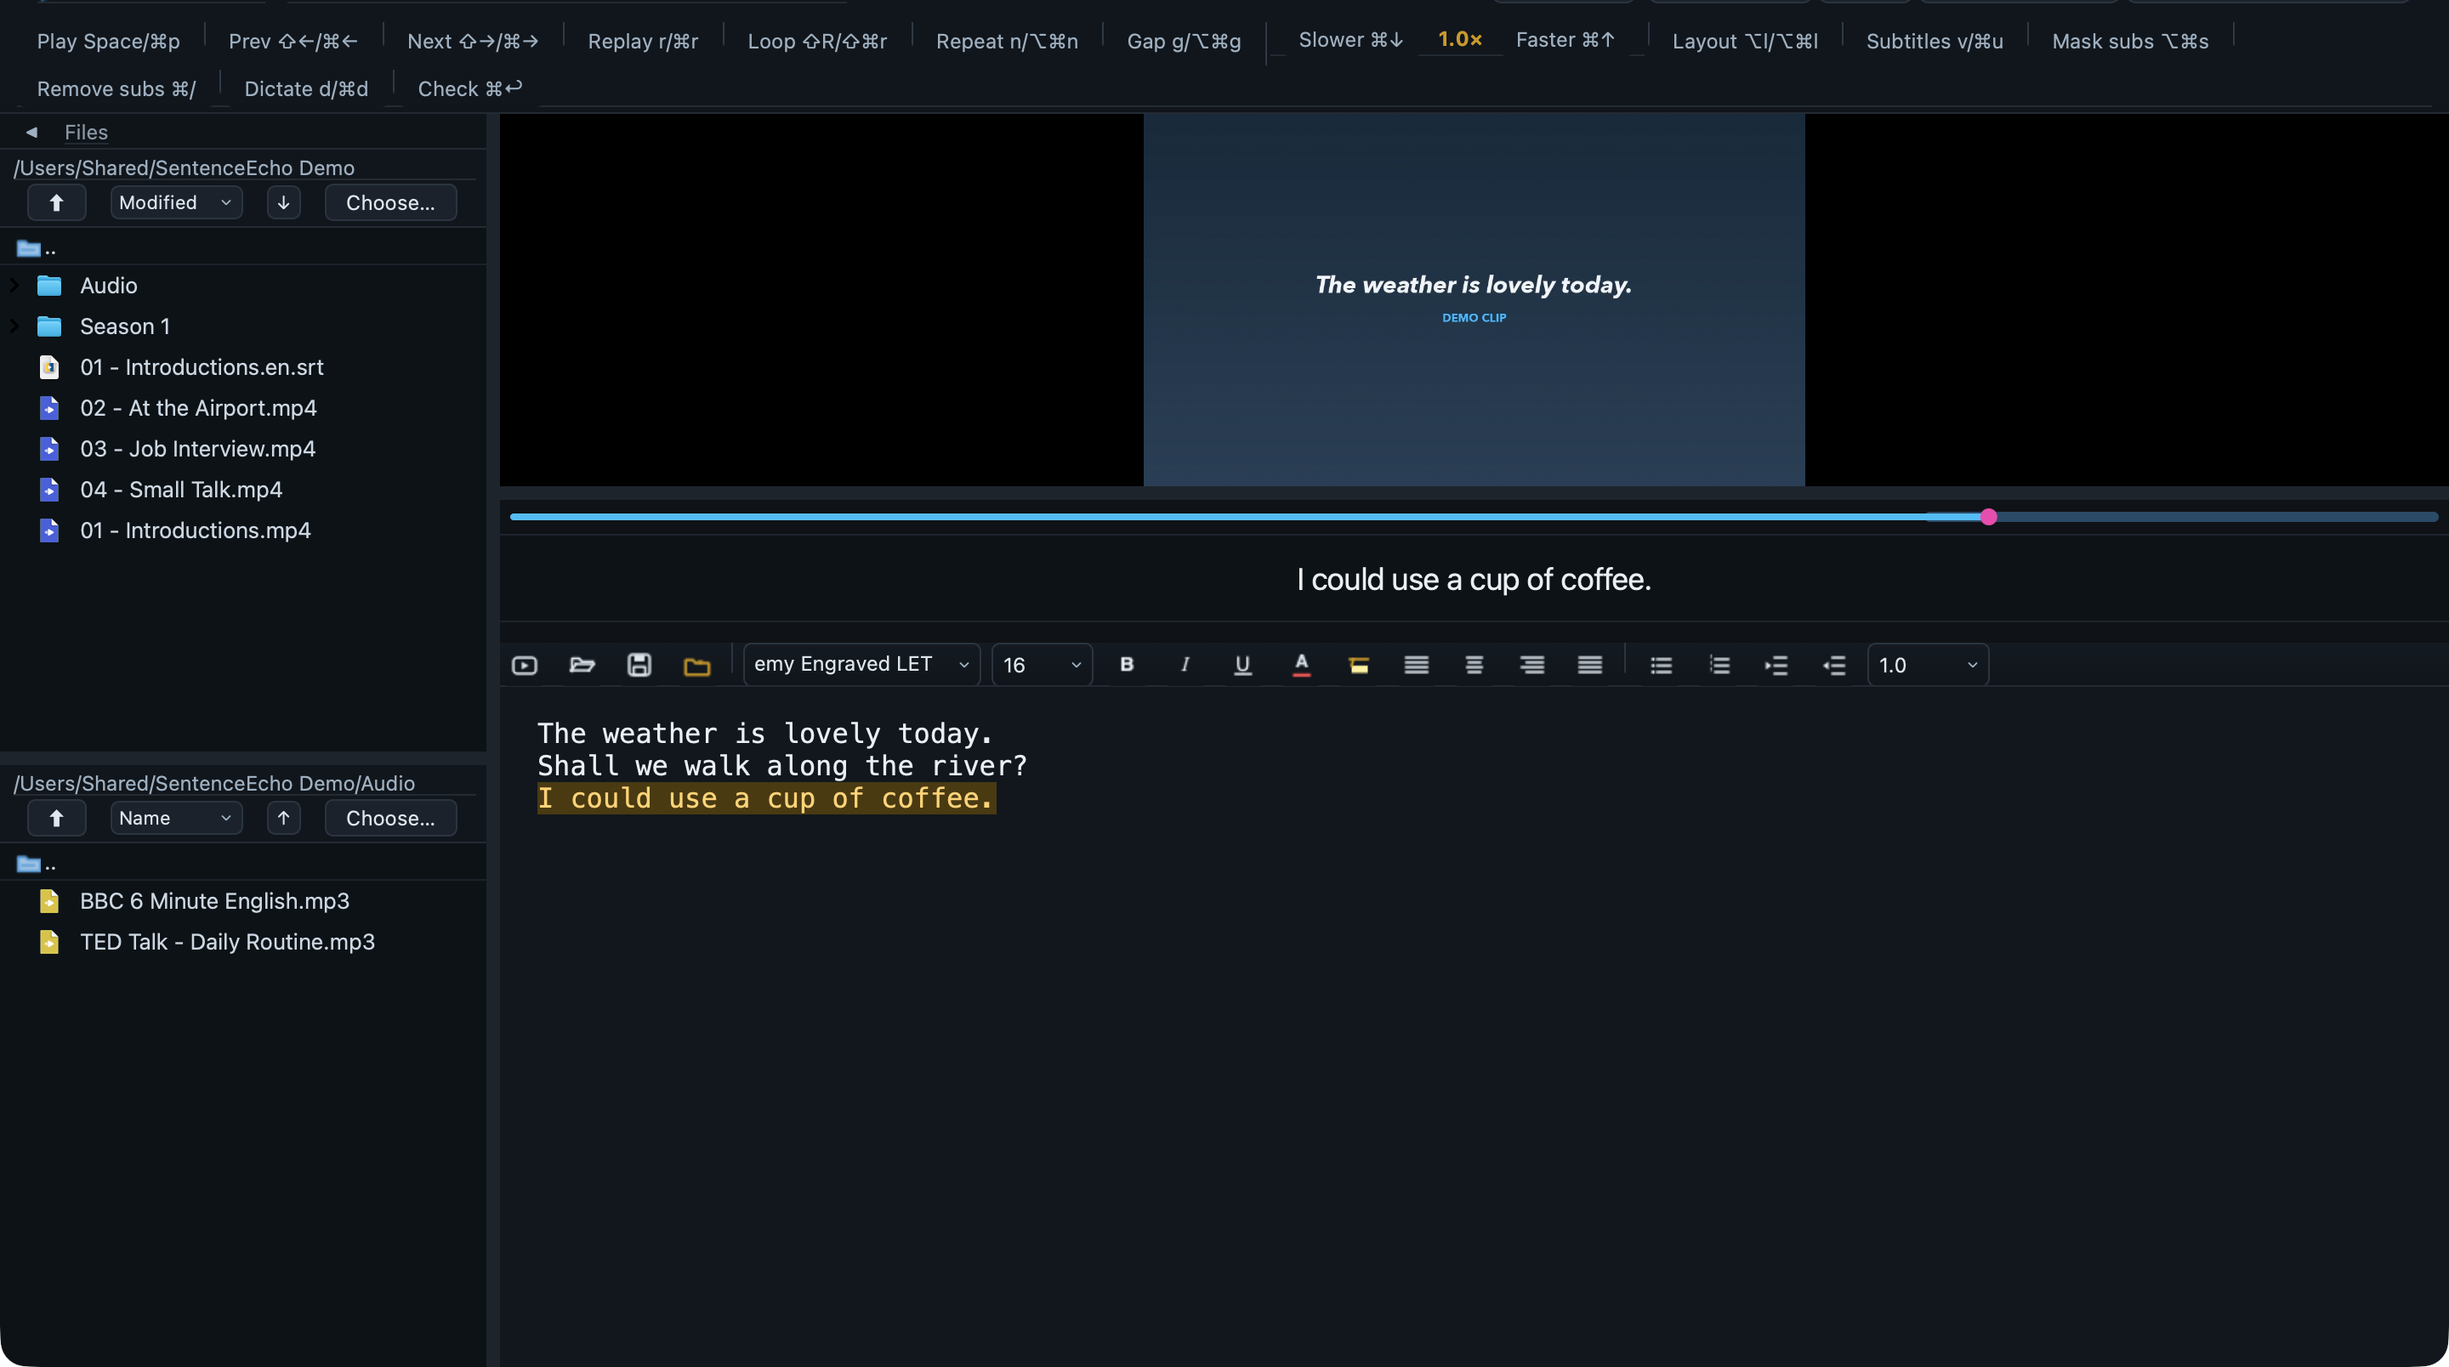
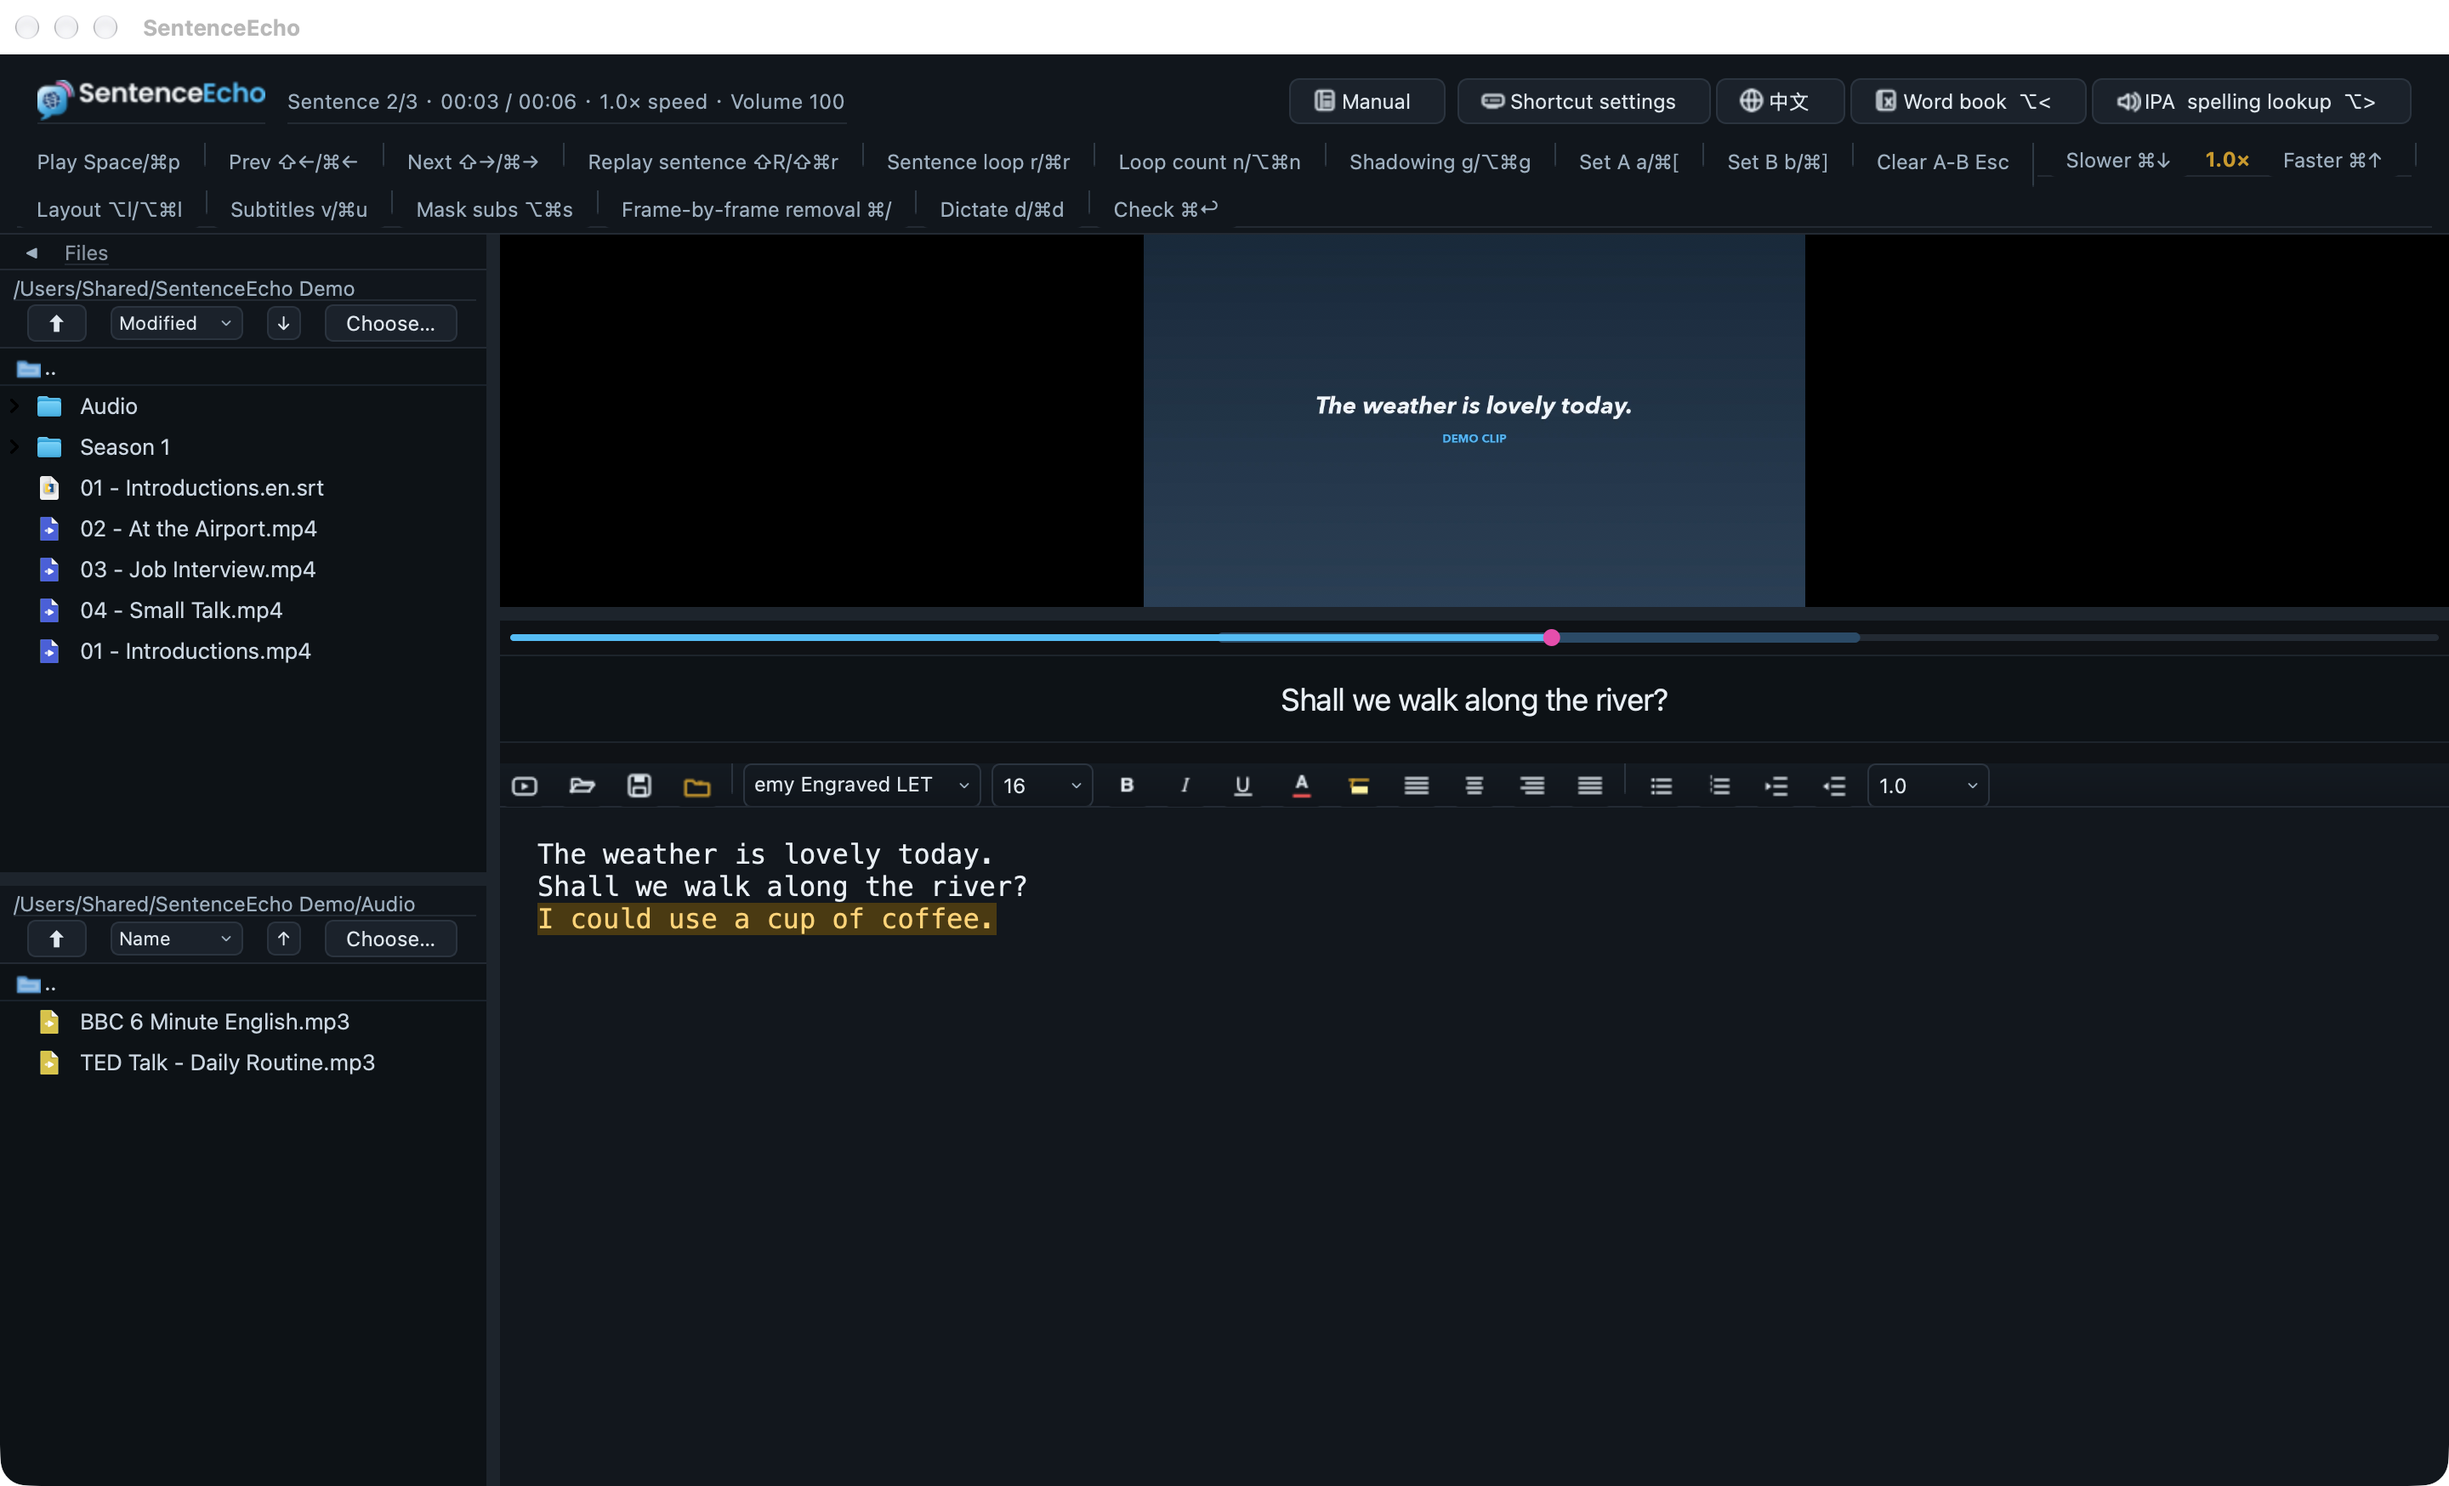
site: new section — lookup-by-sound/spelling engine and arbitrary A-B

diff --git a/app.js b/app.js
@@ -174,6 +174,14 @@
       spot_note: "识别在本机运行，音频不上传。识别引擎与多语种模型已内置在安装包里（约 160 MB），装好即用、全程离线。",
 
       sec3_eb: "03 · 对比",
+      eng_h: "两个真正干活的引擎：听音查字、任意 A-B",
+      eng_sub: "市面上的播放器大多只管\"放\"，查词要另开词典、循环只能按秒拖。这两件事在这里是内置的。",
+      eng1_t: "内置听音查字 / 拼写查字引擎",
+      eng1_p1: "听到一个词却拼不出来——这是听力练习里最常见的卡点。这里不靠\"你会拼\"，而靠\"你听到的音\"：在音素键盘上按音打音标（b3rd → bird、reinbou → rainbow），也可以直接拼个大概。",
+      eng1_p2: "20 万词库、统一英式音标、音素级模糊匹配（同距离按词频，常用词在前）；拼写模式里\"完全拼对的词永远第一\"，前缀同族紧随其后（doom → dooms/doomy）。结果一行显示，回车插入并关闭。",
+      eng2_t: "任意 A-B：起止自己定，不依赖字幕",
+      eng2_p1: "按 ⌘[ 设 A 点、⌘] 设 B 点，就在任意两处之间来回播——可跨句、可只练半句、可卡住一个长句的中间难点；Esc 一键取消。",
+      eng2_p2: "区间在进度条上用洋红色带标出，A/B 端点看得见；没有字幕的素材同样可用。循环中随时可跳上一句/下一句，不会和 A-B 打架。",
       cmp_h: "和现有工具比，差在哪一列",
       cmp_sub: "按品类归纳，不针对具体产品。功能有无只是表象；能不能连成一条线，才是差别。",
       cmp_caption: "SentenceEcho 与同类工具的功能对照",
@@ -452,6 +460,14 @@
       spot_note: "Recognition runs on your Mac and audio is never uploaded. The recognition engine and multilingual model ship inside the installer (~160 MB) — works offline out of the box.",
 
       sec3_eb: "03 · Comparison",
+      eng_h: "Two engines that actually do the work: lookup by sound, and arbitrary A-B",
+      eng_sub: "Most players just play: word lookup means opening another dictionary, and looping means dragging by the second. Here both are built in.",
+      eng1_t: "Built-in lookup by sound / by spelling",
+      eng1_p1: "Hearing a word you cannot spell is the classic listening bottleneck. Lookup works from the sound, not the spelling: tap the phoneme keyboard (b3rd → bird, reinbou → rainbow), or just type your best guess.",
+      eng1_p2: "200k words, consistent British IPA, phoneme-level fuzzy matching (ties broken by frequency, common words first). In spelling mode an exact match always ranks first, with prefix siblings next (doom → dooms/doomy). One-line results; press Enter to insert and close.",
+      eng2_t: "Arbitrary A-B — you set both ends, no subtitles needed",
+      eng2_p1: "Press ⌘[ for A and ⌘] for B to loop between any two points: across sentences, half a sentence, or the hard middle of a long line. Esc clears it.",
+      eng2_p2: "The range is drawn as a magenta band on the seek bar with visible A/B markers, and works on media without subtitles. You can still jump to the prev/next sentence mid-loop without fighting the A-B range.",
       cmp_h: "Where the other tools stop",
       cmp_sub: "Grouped by category, not by brand. Feature ticks are the surface; whether they connect is the difference.",
       cmp_caption: "Feature comparison between SentenceEcho and adjacent tool categories",

diff --git a/index.html b/index.html
@@ -412,6 +412,25 @@
   </section>
 
   <!-- ── 03 对比 ────────────────────────────────────────── -->
+  <section class="section" id="engines">
+    <div class="wrap">
+      <h2 data-i18n="eng_h">两个真正干活的引擎：听音查字、任意 A-B</h2>
+      <p class="sec-sub" data-i18n="eng_sub">市面上的播放器大多只管"放"，查词要另开词典、循环只能按秒拖。这两件事在这里是内置的。</p>
+
+      <div style="display:grid;grid-template-columns:1fr 1fr;gap:18px;margin-top:22px">
+        <div style="background:var(--panel);border:1px solid var(--line);border-radius:14px;padding:20px">
+          <h3 style="margin:0 0 8px;font-size:16px" data-i18n="eng1_t">内置听音查字 / 拼写查字引擎</h3>
+          <p style="margin:0 0 10px;color:var(--muted);font-size:13.5px" data-i18n="eng1_p1">听到一个词却拼不出来——这是听力练习里最常见的卡点。这里的查词不靠"你会拼"，而是靠"你听到的音"：在音素键盘上按听到的音打音标（b3rd → bird、reinbou → rainbow），也可以直接按感觉拼个大概。</p>
+          <p style="margin:0;color:var(--muted);font-size:13.5px" data-i18n="eng1_p2">20 万词库、统一英式音标、音素级模糊匹配（同距离按词频排序，常用词在前）；拼写模式里"完全拼对的词永远第一"，前缀同族紧随其后（doom → dooms/doomy）。结果一行显示，回车即插入文稿并关闭。</p>
+        </div>
+        <div style="background:var(--panel);border:1px solid var(--line);border-radius:14px;padding:20px">
+          <h3 style="margin:0 0 8px;font-size:16px" data-i18n="eng2_t">任意 A-B：起止自己定，不依赖字幕</h3>
+          <p style="margin:0 0 10px;color:var(--muted);font-size:13.5px" data-i18n="eng2_p1">按 <kbd>⌘[</kbd> 设 A 点、<kbd>⌘]</kbd> 设 B 点，就在任意两处之间来回播——可以跨句、可以只练半句、可以卡在一个长句的中间难点上反复；<kbd>Esc</kbd> 一键取消。</p>
+          <p style="margin:0;color:var(--muted);font-size:13.5px" data-i18n="eng2_p2">区间在进度条上用洋红色带标出来，A/B 两个端点看得见；没有字幕的素材同样能用。循环过程中随时可以跳上一句/下一句，不会和 A-B 打架。</p>
+        </div>
+      </div>
+    </div>
+  </section>
   <section class="section" id="compare">
     <div class="wrap">
       <div class="sec-head">
